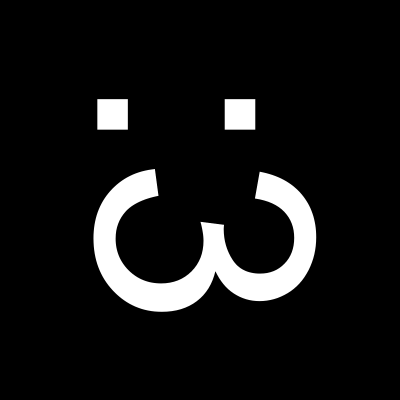
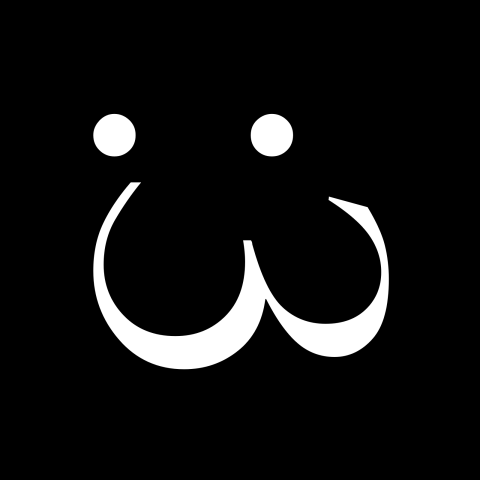
Add files via upload

diff --git a/string_theory_filter.py b/string_theory_filter.py
@@ -1,45 +1,184 @@
+from os import system, mkdir
 from imageio.v3 import imread, imwrite
 import numpy as np
-from os import system, mkdir
-from scipy.ndimage import gaussian_filter
+from scipy.ndimage import gaussian_filter as gaussian
+from scipy.ndimage import median_filter as median
+from scipy.ndimage import sobel
 from scipy.signal import medfilt2d
+from matplotlib.colors import ListedColormap
+import matplotlib.pyplot as plt
+from scipy.signal import resample
 
-def median(x):
-    return medfilt2d(x, kernel_size=MEDIAN_SIZE)
 
-def to_uint8(x):
-    return np.round(x*255).clip(0, 255).astype(np.uint8)
 
-def normalized(x):
-    s = int(np.ceil(MEDIAN_SIZE*0.5))
-    height, width = x.shape[:2]
-    min_, max_ = np.min(x[s:height-s, s:width-s]), np.max(x[s:height-s, s:width-s])
-    return (x - min_)/(max_ - min_)
 
+#-------- settings -----------------------------------
+GRAYSCALE = True
+SUBPIXEL = False
+ANTI_PAD_RADIUS = 0
+TIME_LOWER_BOUND = 0.1
+TIME_UPPER_BOUND = 0.75
+
+NUM_FRAMES = 60
+QUALITY = 100
+LOSSY_QUALITY = 100
+MOTION_QUALITY = 100
+FPS = 36
+
+# GRADIENT_MAP = False  # no gradient map
+GRADIENT_MAP = 'colormap5'
+
+#-------- filter settings ----------------------------
+GAUSS_SIZE_MAX = 38*4.2*0.7
+
+DIFF_GAUSS_SIZE_MAX = 17*4.2*0.7
+DIFF_AMOUNT = 0.15
+
+POWER_VAL = 1
+ENABLE_SOBEL = False
+PRE_SOBEL = True
+POST_SOBEL = True
 
 
 MEDIAN_SIZE = 9
+# MEDIAN_TIERS = 3
 
-GAUSS_SIZE_MAX = 38
-DIFF_GAUSS_SIZE_MAX = 17
-DIFF_AMOUNT = 0.2
-
-POWER_VAL = 0.4
-
-GRAYSCALE = True
-SUBPIXEL = False
+FAST_MEDIAN = False
+CIRCLE_WEIGHTS = True
+FILL_CIRCLE = True
+CIRCLE_THICKNESS = 1
+#-----------------------------------------------------
 
 
 
+
+# float array -> unint8 array;
+def to_uint8(x):
+    return np.round(x*255).clip(0, 255).astype(np.uint8)
+
+# array -> float array; normalizes input array between 0 and 1.
+def normalized(x):
+    min_ = np.min(x) # np.percentile(x, 0.1)
+    max_ = np.max(x) # np.percentile(x, 0.9)
+    return (x - min_)/(max_ - min_)
+
+# 2d array, int -> 2d array; opposite of numpy.pad() function.
+def anti_pad(x, r):
+    return x[r:-r, r:-r]
+
+# def lightness_map(x):
+#     # return x
+#     a = x*x
+#     return 1.19040961067*x - 1.56545604886*a + 2.74955818196*a*x - 1.38838695488*a*a
+
+def draw_antialiased_circle(size):
+    ceil_size = int(np.ceil(size))
+    image = np.zeros((ceil_size, ceil_size, 1), dtype=np.float32)
+
+    center = (ceil_size/2 - 0.5, ceil_size/2 - 0.5)
+    radius = size/2 - 0.5
+
+    if FILL_CIRCLE:
+        for y in range(ceil_size):
+            for x in range(ceil_size):
+                dist = np.sqrt((x - center[0])**2 + (y - center[1])**2)
+
+                if dist <= radius:
+                    image[y, x] = 1
+                elif dist <= radius + 1:
+                    alpha = 1 - (dist - radius)
+                    image[y, x] = alpha
+    else:
+        for y in range(ceil_size):
+            for x in range(ceil_size):
+                dist = np.sqrt((x - center[0])**2 + (y - center[1])**2)
+
+                if dist < radius-CIRCLE_THICKNESS:
+                    image[y, x] = 0
+                elif dist < radius-CIRCLE_THICKNESS+1:
+                    alpha = (dist - radius)%1
+                    image[y, x] = alpha
+                elif radius-CIRCLE_THICKNESS+1 <= dist <= radius:
+                    image[y, x] = 1
+                elif dist <= radius + 1:
+                    alpha = 1 - (dist - radius)
+                    image[y, x] = alpha
+        
+    return image[:,:,0]/np.max(image[:,:,0])
+
+
+# INV_GAMMA = 1/2.36
+# def srgb_mix(a, b, mix=0.5, gamma=2.36):
+#     a = np.power(a, gamma)
+#     b = np.power(b, gamma)
+#     c = a*(1-mix) + b*mix
+#     return np.power(c, INV_GAMMA)
+
+# 2d array -> 2d array; applies median filter to input array.
+
+
+
+# MEDIAN
+
+if FAST_MEDIAN:
+    def median_filter(x):
+            return medfilt2d(x, kernel_size=MEDIAN_SIZE)
+else:
+    if CIRCLE_WEIGHTS:
+        FOOTPRINT = draw_antialiased_circle(MEDIAN_SIZE)
+        def median_filter(x):
+            return median(x, footprint=FOOTPRINT)
+    else:
+        def median_filter(x):
+            return median(x, size=MEDIAN_SIZE)
+
+
+# def median_filter_2(x):
+#     pass
+
+
+if GRADIENT_MAP:
+    GRADIENT = imread('colormaps/'+GRADIENT_MAP+'.png', mode='L', pilmode='RGB')[0,:,:]/255
+    GRADIENT = ListedColormap(GRADIENT)
+    def gradient_map(x):
+        aximg = plt.imshow(x, cmap=GRADIENT)
+        return aximg.make_image(renderer=None, unsampled=True)[0]
+
+
+if ENABLE_SOBEL:
+    def gaussian_filter(x, radius):
+        image_ = x
+        if PRE_SOBEL:
+            sobel_h = sobel(x, 0)
+            sobel_v = sobel(x, 1)
+            x = np.sqrt(sobel_h**2 + sobel_v**2)
+        x = gaussian(image_, radius, mode='constant')
+        if POST_SOBEL:
+            sobel_h = sobel(x, 0)
+            sobel_v = sobel(x, 1)
+            x = np.sqrt(sobel_h**2 + sobel_v**2)
+        return x
+else:
+     def gaussian_filter(x, radius):
+        return gaussian(x, radius, mode='constant')
+
+
+
+# scale gaussian blur radii to compensate for 1/3x scaling factor
 if SUBPIXEL:
     GAUSS_SIZE_MAX *= 3
     DIFF_GAUSS_SIZE_MAX *= 3
 
+ANTI_PAD_RADIUS += int(np.ceil(MEDIAN_SIZE*0.5))
+
+
+# read 'input.png' as numpy array
 if GRAYSCALE:
     input_img = imread('input.png', mode='F', pilmode='RGB').astype(np.float64)
 else:
     input_img = imread('input.png', mode='L', pilmode='RGB').astype(np.float64)
 
+# initialize directory for output images
 try:
     mkdir('outputs')
 except FileExistsError:
@@ -47,41 +186,76 @@ except FileExistsError:
 system(f'cd outputs && del *.png')
 
 
-for i, val in enumerate(np.linspace(0.005, 1, 200)):
+if GRAYSCALE:
+    for i, val in enumerate(np.linspace(TIME_LOWER_BOUND, TIME_UPPER_BOUND, NUM_FRAMES)):
+        # determine linear gaussian blur radius
+        gauss_size = (np.power(2, val)-1)*GAUSS_SIZE_MAX+1
+        diff_gauss_size = (np.power(2, val)-1)*DIFF_GAUSS_SIZE_MAX+1
 
-    gauss_size = GAUSS_SIZE_MAX*val
-    diff_gauss_size = DIFF_GAUSS_SIZE_MAX*val
-
-
-    if GRAYSCALE:
+        # apply gaussian blur
         filtered_img1 = gaussian_filter(input_img[:,:,0], gauss_size)
         filtered_img11 = gaussian_filter(input_img[:,:,0], diff_gauss_size)
-    else:              
-        filtered_img1 = np.dstack((gaussian_filter(input_img[:,:,0], gauss_size),
-                                   gaussian_filter(input_img[:,:,1], gauss_size),
-                                   gaussian_filter(input_img[:,:,2], gauss_size)))
-        filtered_img11 = np.dstack((gaussian_filter(input_img[:,:,0], diff_gauss_size),
-                                    gaussian_filter(input_img[:,:,1], diff_gauss_size),
-                                    gaussian_filter(input_img[:,:,2], diff_gauss_size)))
 
-    filtered_img1 = np.abs(filtered_img1 - filtered_img11*DIFF_AMOUNT)
-    filtered_img1 = normalized(filtered_img1)
+        filtered_img1 = np.abs(filtered_img1 - filtered_img11*DIFF_AMOUNT)
+        
+        filtered_img1 = normalized(filtered_img1)
 
-    if GRAYSCALE:
-        filtered_img2 = median(filtered_img1)
-    else:
-        filtered_img2 = np.dstack((median(filtered_img1[:,:,0]),
-                                   median(filtered_img1[:,:,1]),
-                                   median(filtered_img1[:,:,2])))
+        filtered_img2 = median_filter(filtered_img1)
 
-    filtered_img3 = np.abs(filtered_img2 - filtered_img1)
-    filtered_img3 = np.power(normalized(filtered_img3), POWER_VAL)
+        filtered_img3 = anti_pad(np.abs(filtered_img2 - filtered_img1), ANTI_PAD_RADIUS)
+        filtered_img3 = np.power(normalized(filtered_img3), POWER_VAL)
 
+        if GRADIENT_MAP:
+            filtered_img3 = gradient_map(filtered_img3)
+        else:
+            filtered_img3 = to_uint8(filtered_img3)
+        print(i)
 
-    imwrite(f'outputs/{i}.png', to_uint8(filtered_img3))
-    if SUBPIXEL:
-        system(f'subpixeler "outputs/{i}.png"')
-    print(i)
+        imwrite(f'outputs/{i}.png', filtered_img3)
+        if SUBPIXEL:
+            system(f'subpixeler "outputs/{i}.png"')
 
 
-system('gifski --quality=100 --lossy-quality=100 --motion-quality=100 --extra --fps 50 -o output.gif outputs/*.png')
+system(f'gifski \
+       --quality={QUALITY} \
+       --lossy-quality={LOSSY_QUALITY} \
+       --motion-quality={MOTION_QUALITY} \
+       --extra \
+       --fps {FPS} \
+       -o output.gif \
+       outputs/*.png \
+       ')
+
+# gifski --quality=100 --lossy-quality=100 --motion-quality=100 --extra --fps 36 -o output.gif outputs/*.png
+
+
+
+
+
+# ARBITRARY RGB IMAGES (outdated)
+
+# else:
+#     for i, val in enumerate(np.linspace(0.005, 1, NUM_FRAMES)):
+#         gauss_size = (np.power(2, val)-1)*GAUSS_SIZE_MAX+1
+#         diff_gauss_size = (np.power(2, val)-1)*DIFF_GAUSS_SIZE_MAX+1
+
+#         filtered_img1 = np.dstack((gaussian_filter(input_img[:,:,0], gauss_size),
+#                                    gaussian_filter(input_img[:,:,1], gauss_size),
+#                                    gaussian_filter(input_img[:,:,2], gauss_size)))
+#         filtered_img11 = np.dstack((gaussian_filter(input_img[:,:,0], diff_gauss_size),
+#                                     gaussian_filter(input_img[:,:,1], diff_gauss_size),
+#                                     gaussian_filter(input_img[:,:,2], diff_gauss_size)))
+        
+#         filtered_img1 = np.abs(filtered_img1 - filtered_img11*DIFF_AMOUNT)
+
+#         filtered_img2 = np.dstack((median_filter(filtered_img1[:,:,0]),
+#                                    median_filter(filtered_img1[:,:,1]),
+#                                    median_filter(filtered_img1[:,:,2])))
+
+#         filtered_img3 = np.abs(filtered_img2 - filtered_img1)
+#         filtered_img3 = np.power(normalized(filtered_img3), POWER_VAL)
+
+#         imwrite(f'outputs/{i}.png', to_uint8(filtered_img3))
+#         if SUBPIXEL:
+#             system(f'subpixeler "outputs/{i}.png"')
+#         print(i)
